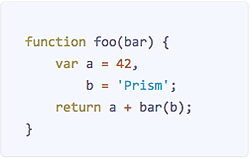
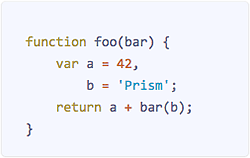
some more distinct values for yellow, green and orange

diff --git a/themes/prism-base16-ateliersulpherpool.light.css b/themes/prism-base16-ateliersulpherpool.light.css
@@ -71,11 +71,11 @@ pre[class*="language-"] {
 .token.operator,
 .token.boolean,
 .token.number {
-  color: #b26624;
+  color: #c76b29;
 }
 
 .token.property {
-  color: #a38d29;
+  color: #c08b30;
 }
 
 .token.tag {
@@ -91,7 +91,7 @@ pre[class*="language-"] {
 }
 
 .token.attr-name {
-  color: #b26624;
+  color: #c76b29;
 }
 
 .token.entity,
@@ -106,7 +106,7 @@ pre[class*="language-"] {
 .token.control,
 .token.directive,
 .token.unit {
-  color: #a89648;
+  color: #ac9739;
 }
 
 .token.statement,
